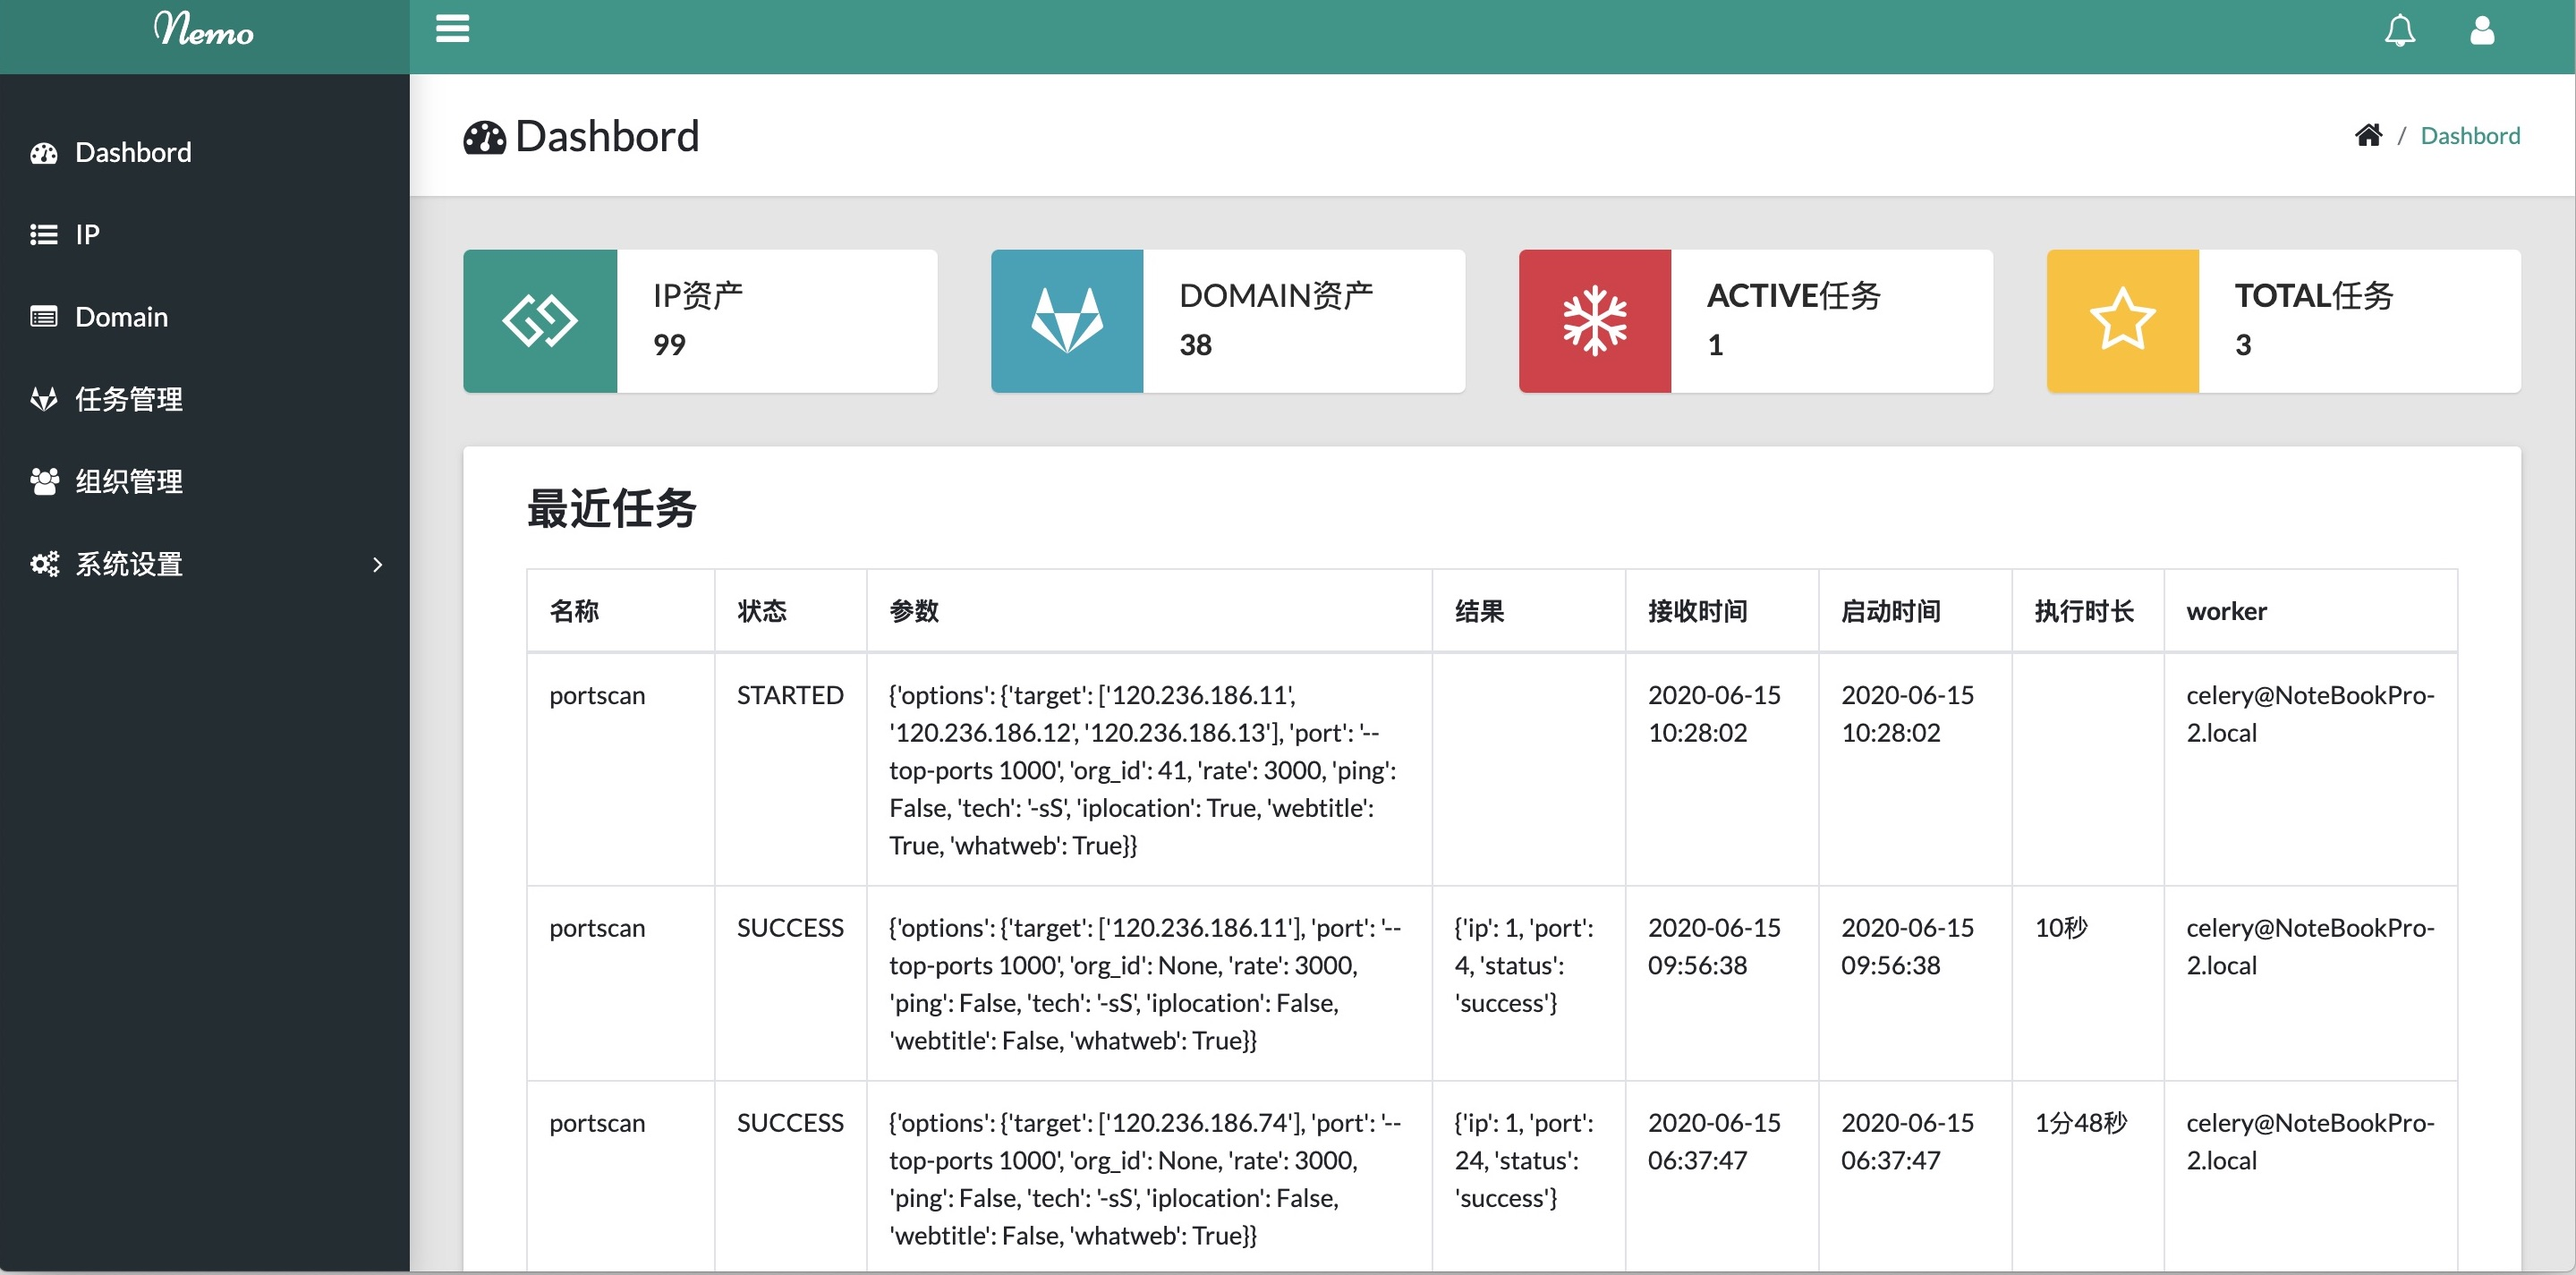
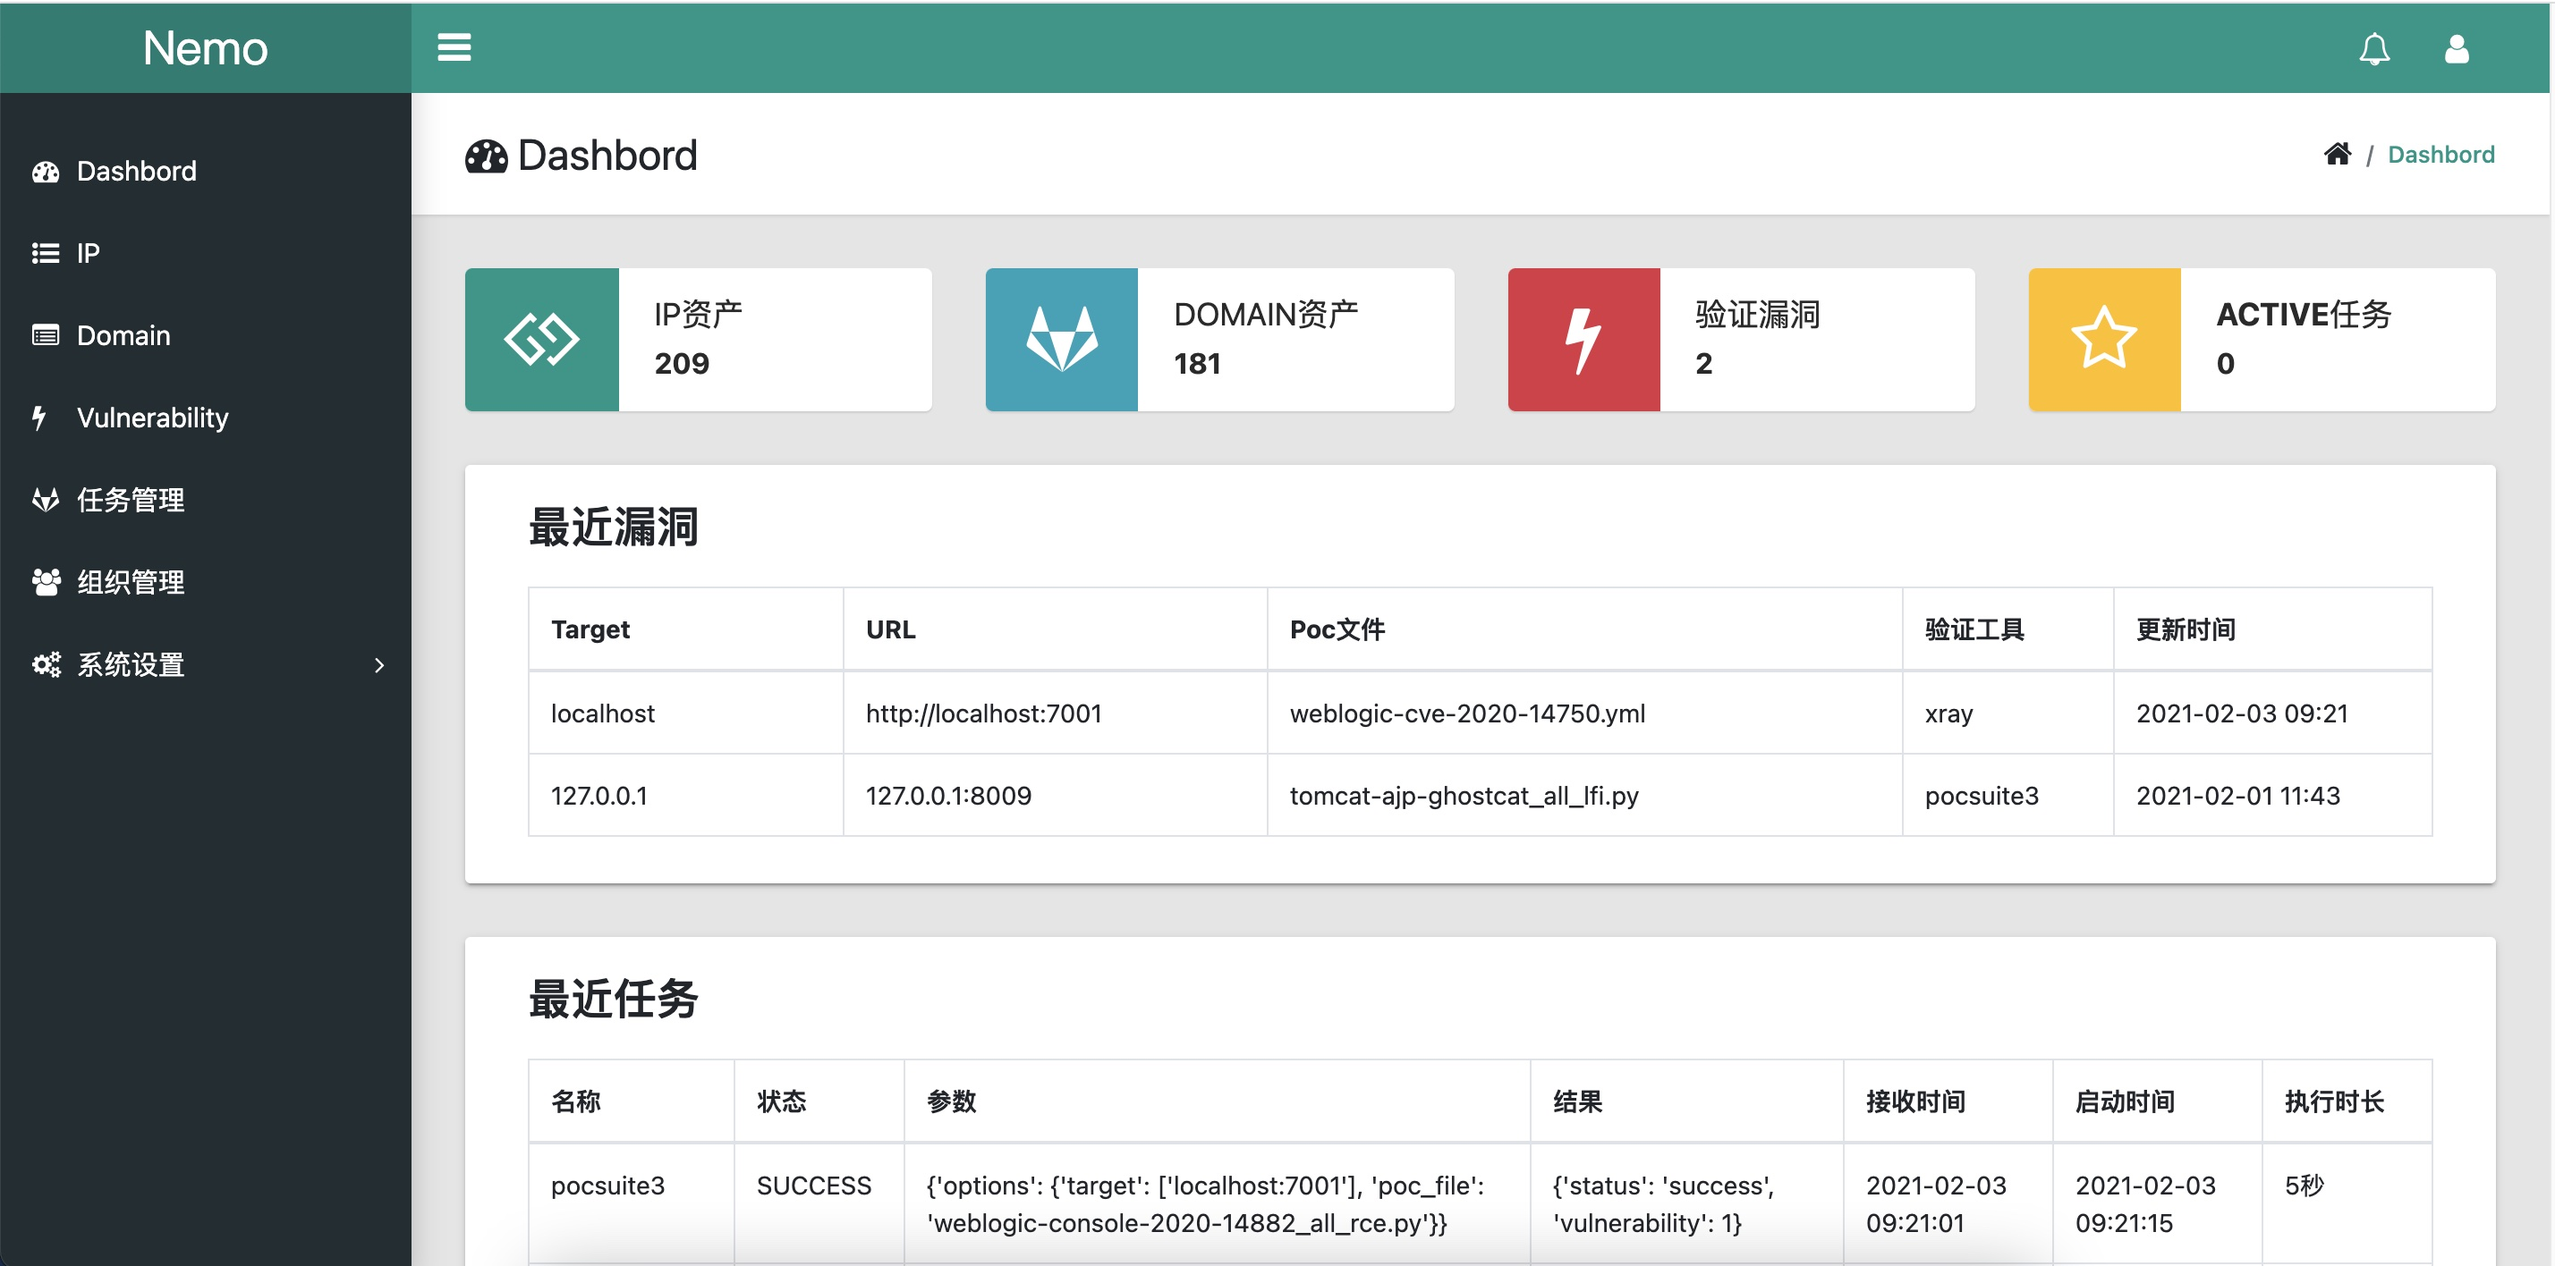
Update: README

diff --git a/nemo/web/static/js/server/vulnerability-list.js b/nemo/web/static/js/server/vulnerability-list.js
@@ -138,7 +138,7 @@ function init_dataTables_defaultParam(param) {
 function delete_vulnerability(id) {
     swal({
             title: "确定要删除?",
-            text: "该操作会删除当前任务，请确保当前任务已完成或中止！",
+            text: "删除当前漏洞！",
             type: "warning",
             showCancelButton: true,
             confirmButtonColor: "#DD6B55",

diff --git a/nemo/web/templates/dashboard.html b/nemo/web/templates/dashboard.html
@@ -44,7 +44,7 @@
                         <i class="icon fa fa-bolt fa-3x"></i>
                     </a>
                     <div class="info">
-                        <h4><b>漏洞</b></h4>
+                        <h4>验证漏洞</h4>
                         <p><b><span id="vulnerability_count"></span></b></p>
                     </div>
                 </div>
